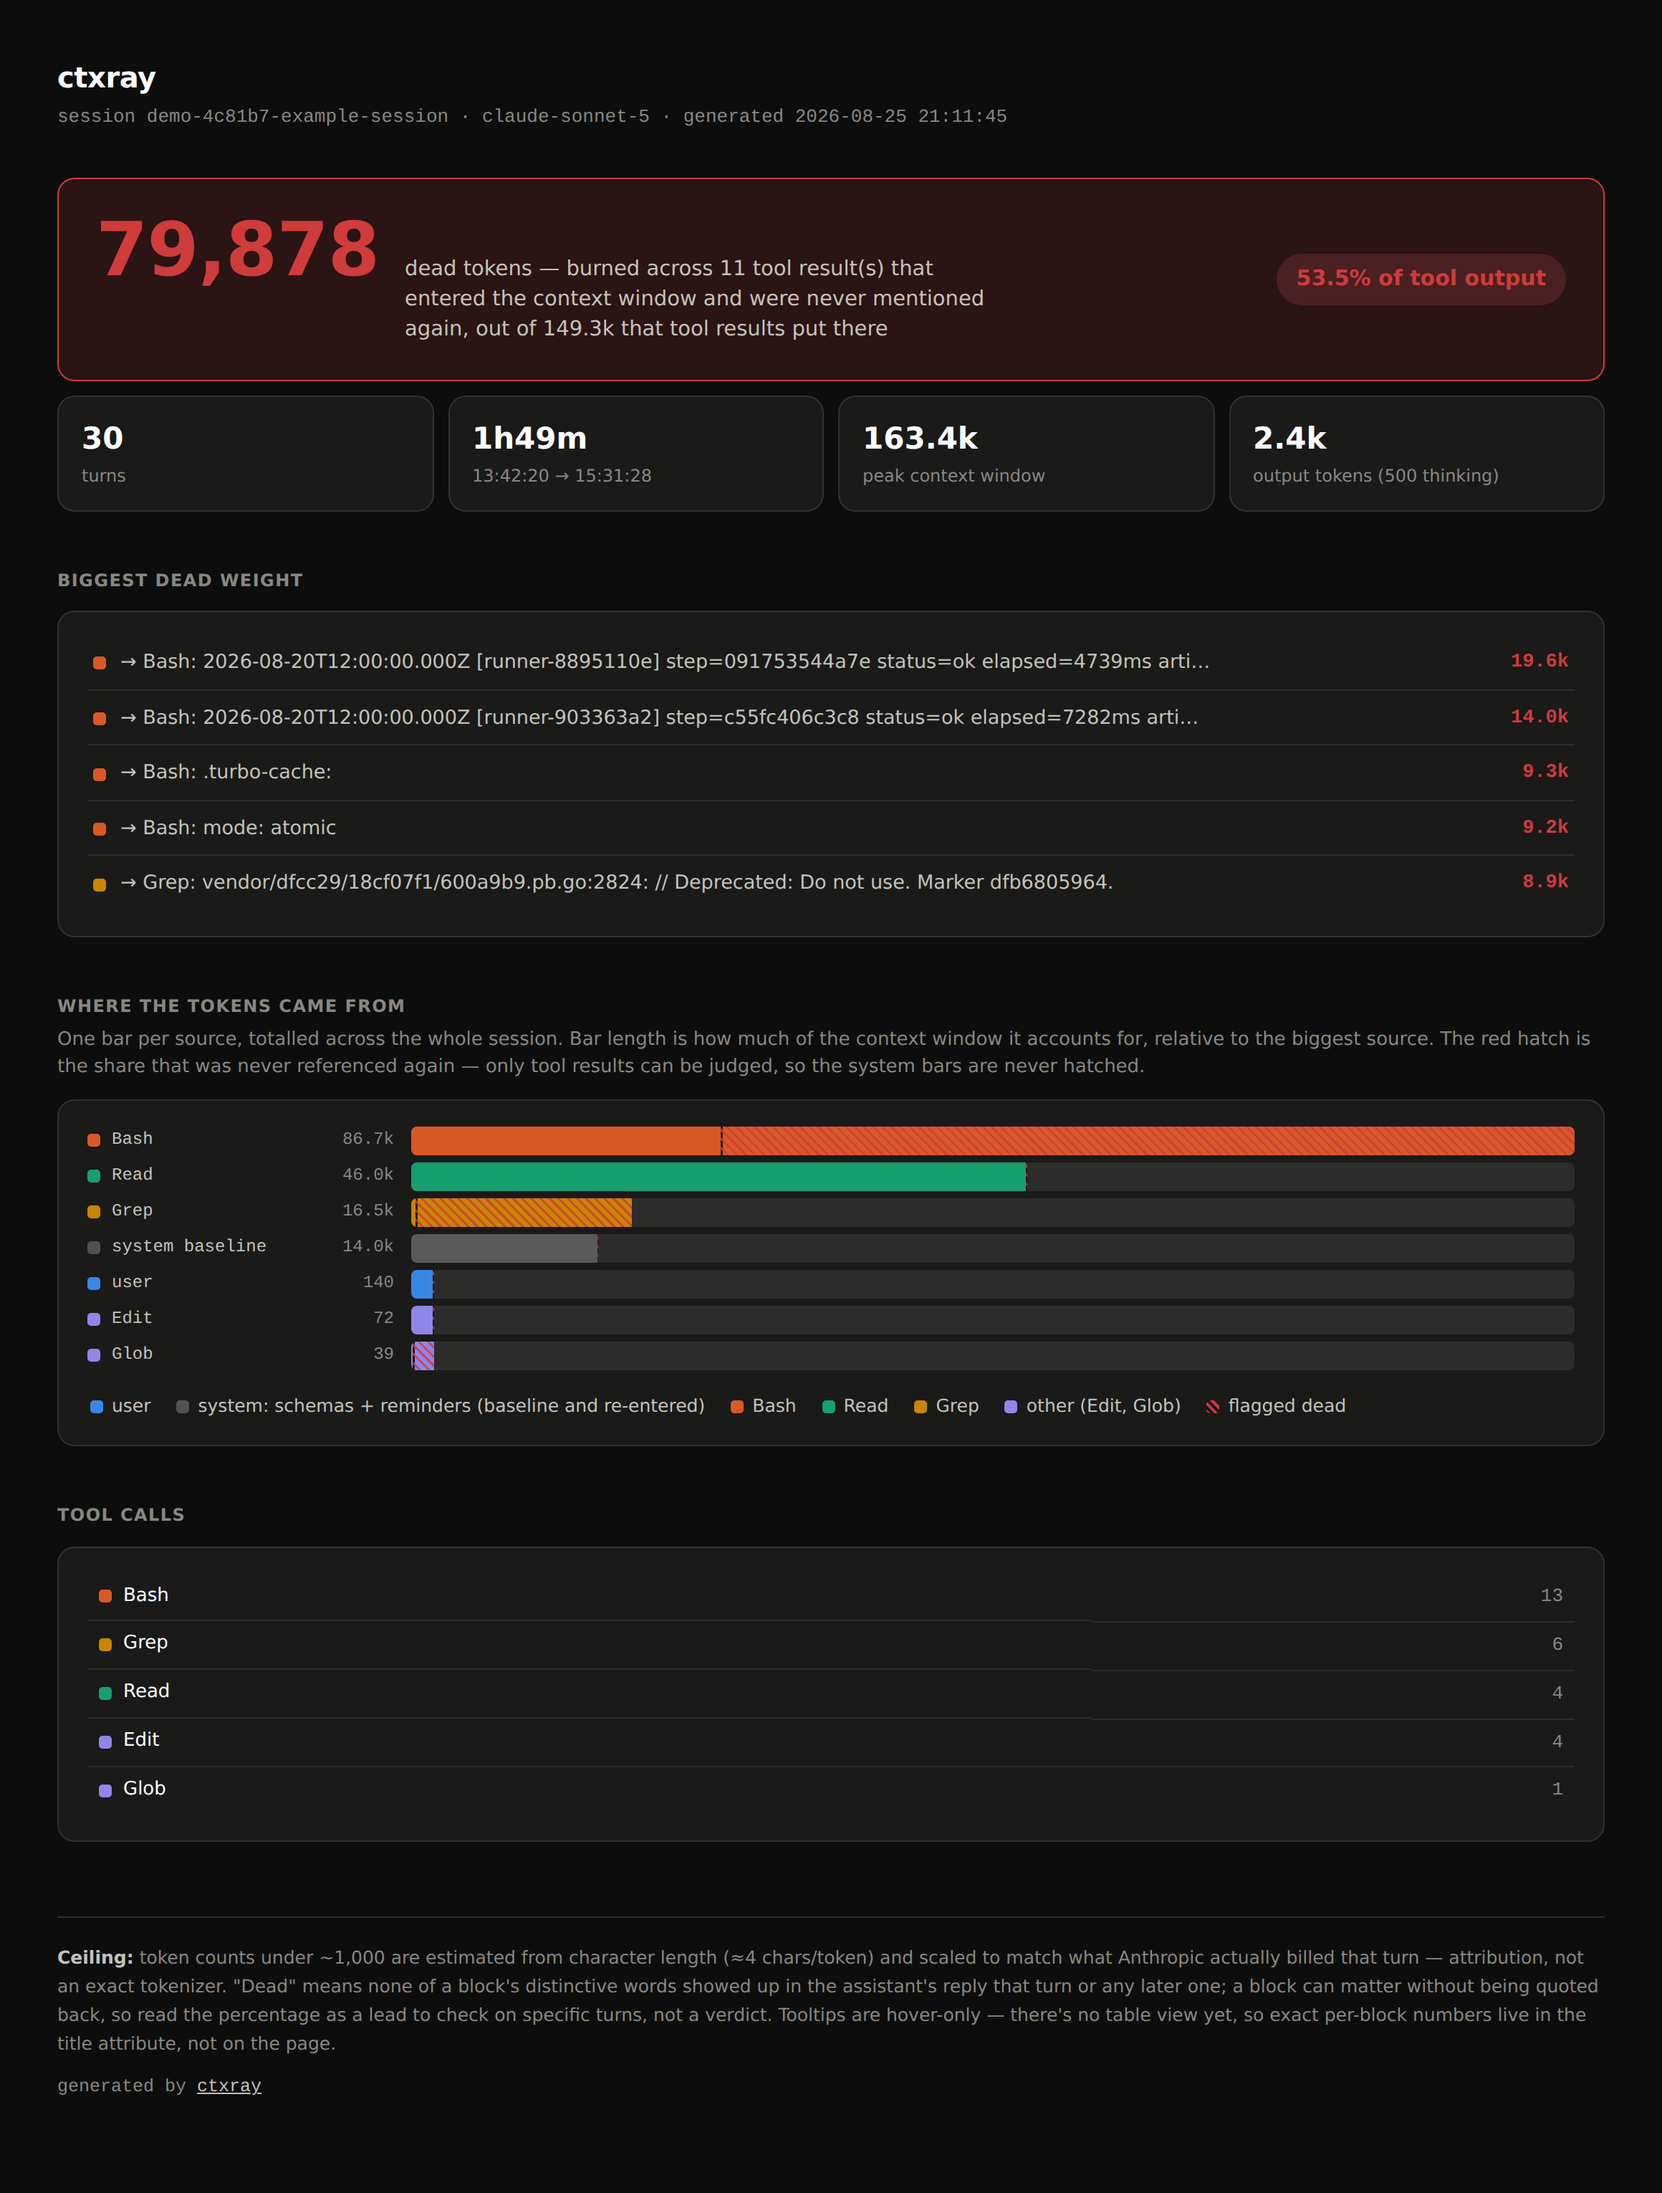
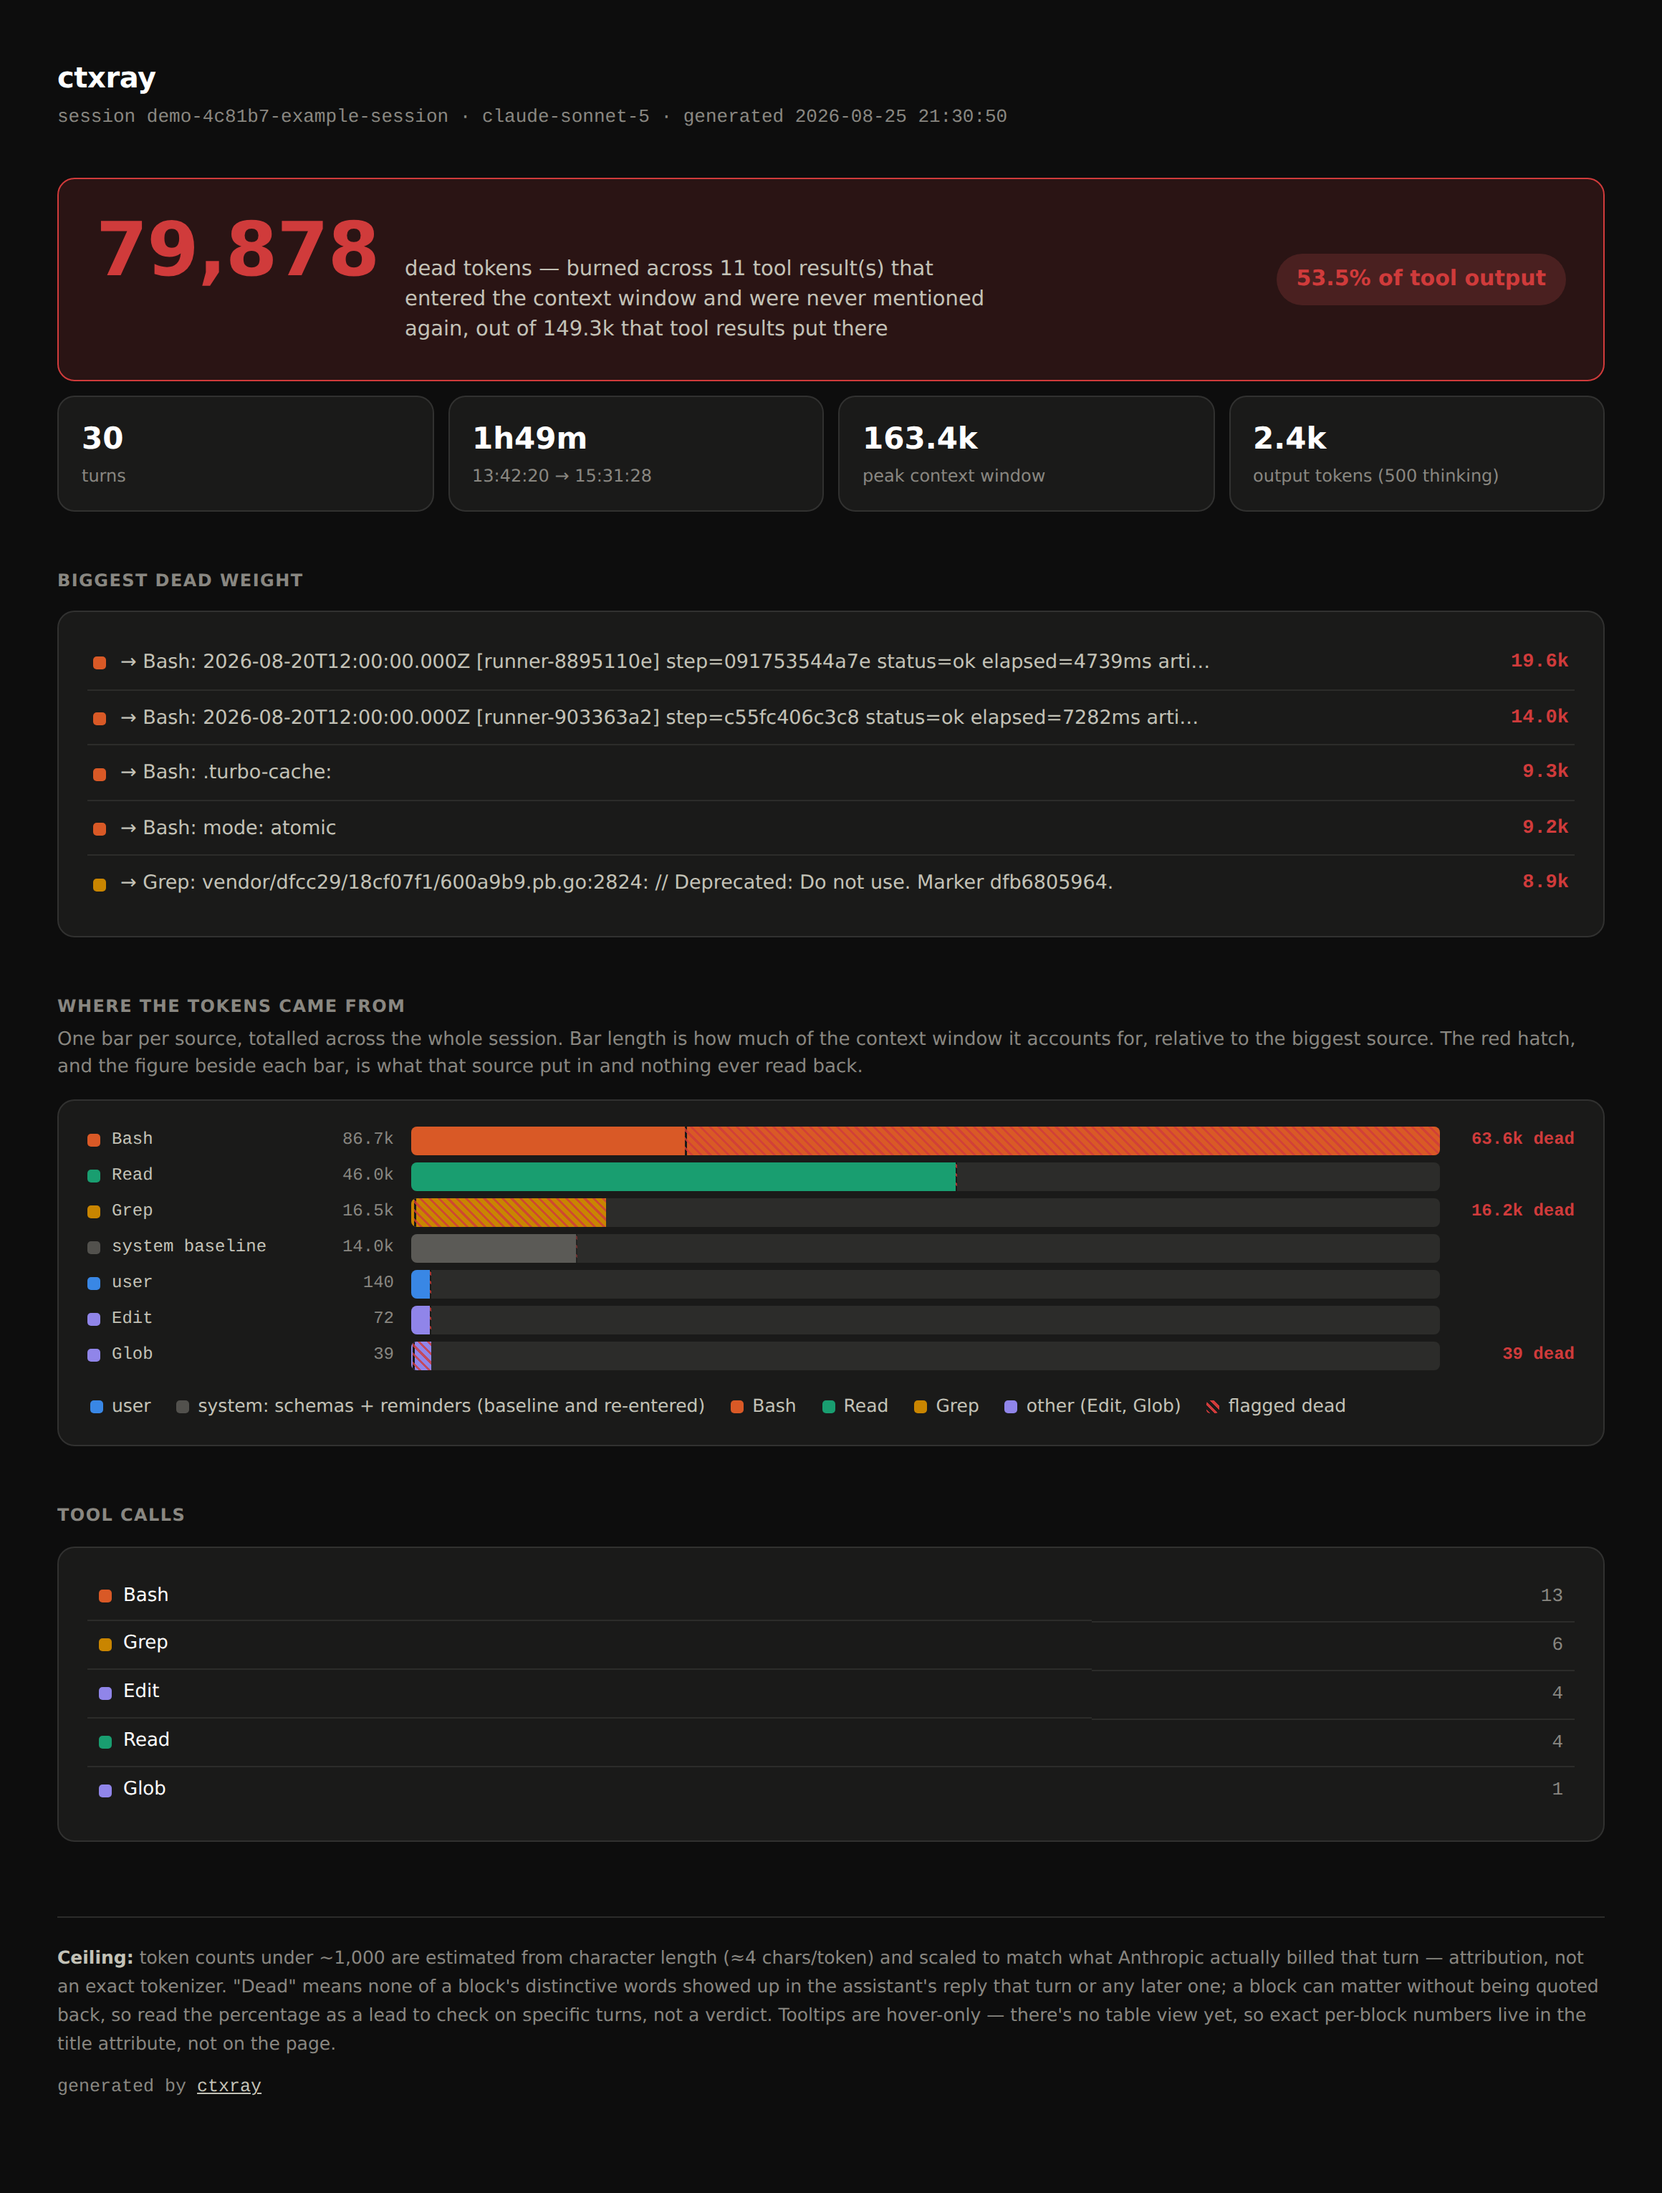
Put the wasted count on every bar
The chart showed what each source cost and hid what each source lost in a
hatch pattern you had to eyeball against a legend. The waste is the point
of the tool, so it now sits beside the bar as a figure: Bash 86.7k, 63.6k
dead. Sources that wasted nothing show nothing, which reads as cleanly as
a zero would without adding noise to every row.

Caption follows suit — it describes what the hatch and the figure mean
rather than explaining which bars are exempt from judgement and why.

diff --git a/internal/render/types.go b/internal/render/types.go
@@ -50,6 +50,8 @@ type SourceVM struct {
 	Label        string // "Bash", "user", "system / tool schemas"
 	Slot         string
 	Tokens       string
+	DeadTokens   string // what this source put in and nothing ever read back
+	HasDead      bool
 	RowWidthPct  float64 // this source's total against the biggest source's
 	LiveWidthPct float64 // share of this bar that did get referenced again
 	DeadPct      float64 // share of this bar that was never referenced again

diff --git a/internal/render/build.go b/internal/render/build.go
@@ -149,6 +149,8 @@ func buildSourceVMs(turns []analyze.Turn, callCounts map[string]int) []SourceVM 
 			Label:        sourceLabel(s.source),
 			Slot:         string(slotFor(s.source)),
 			Tokens:       formatTokens(s.tokens),
+			DeadTokens:   formatTokens(s.dead),
+			HasDead:      s.dead > 0,
 			RowWidthPct:  rowWidth,
 			LiveWidthPct: 100 - deadPct,
 			DeadPct:      deadPct,
